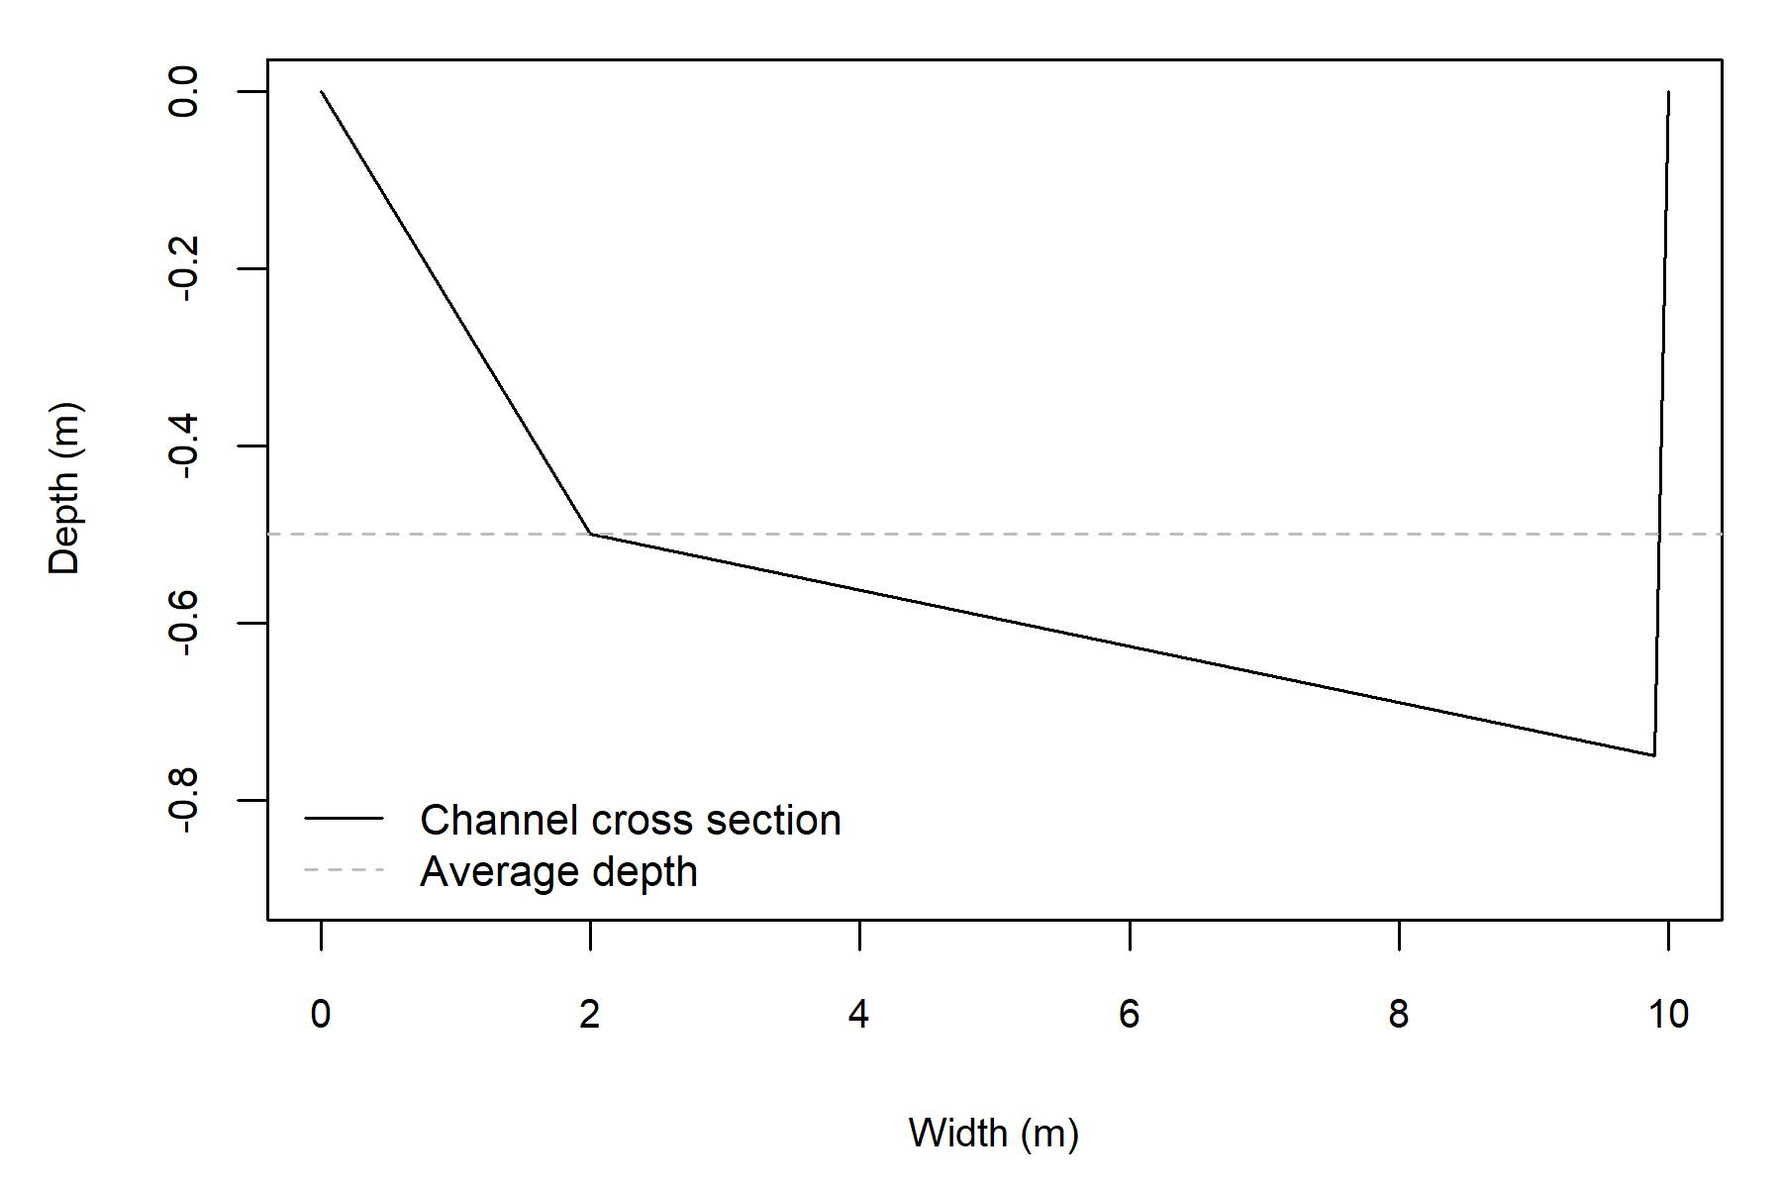
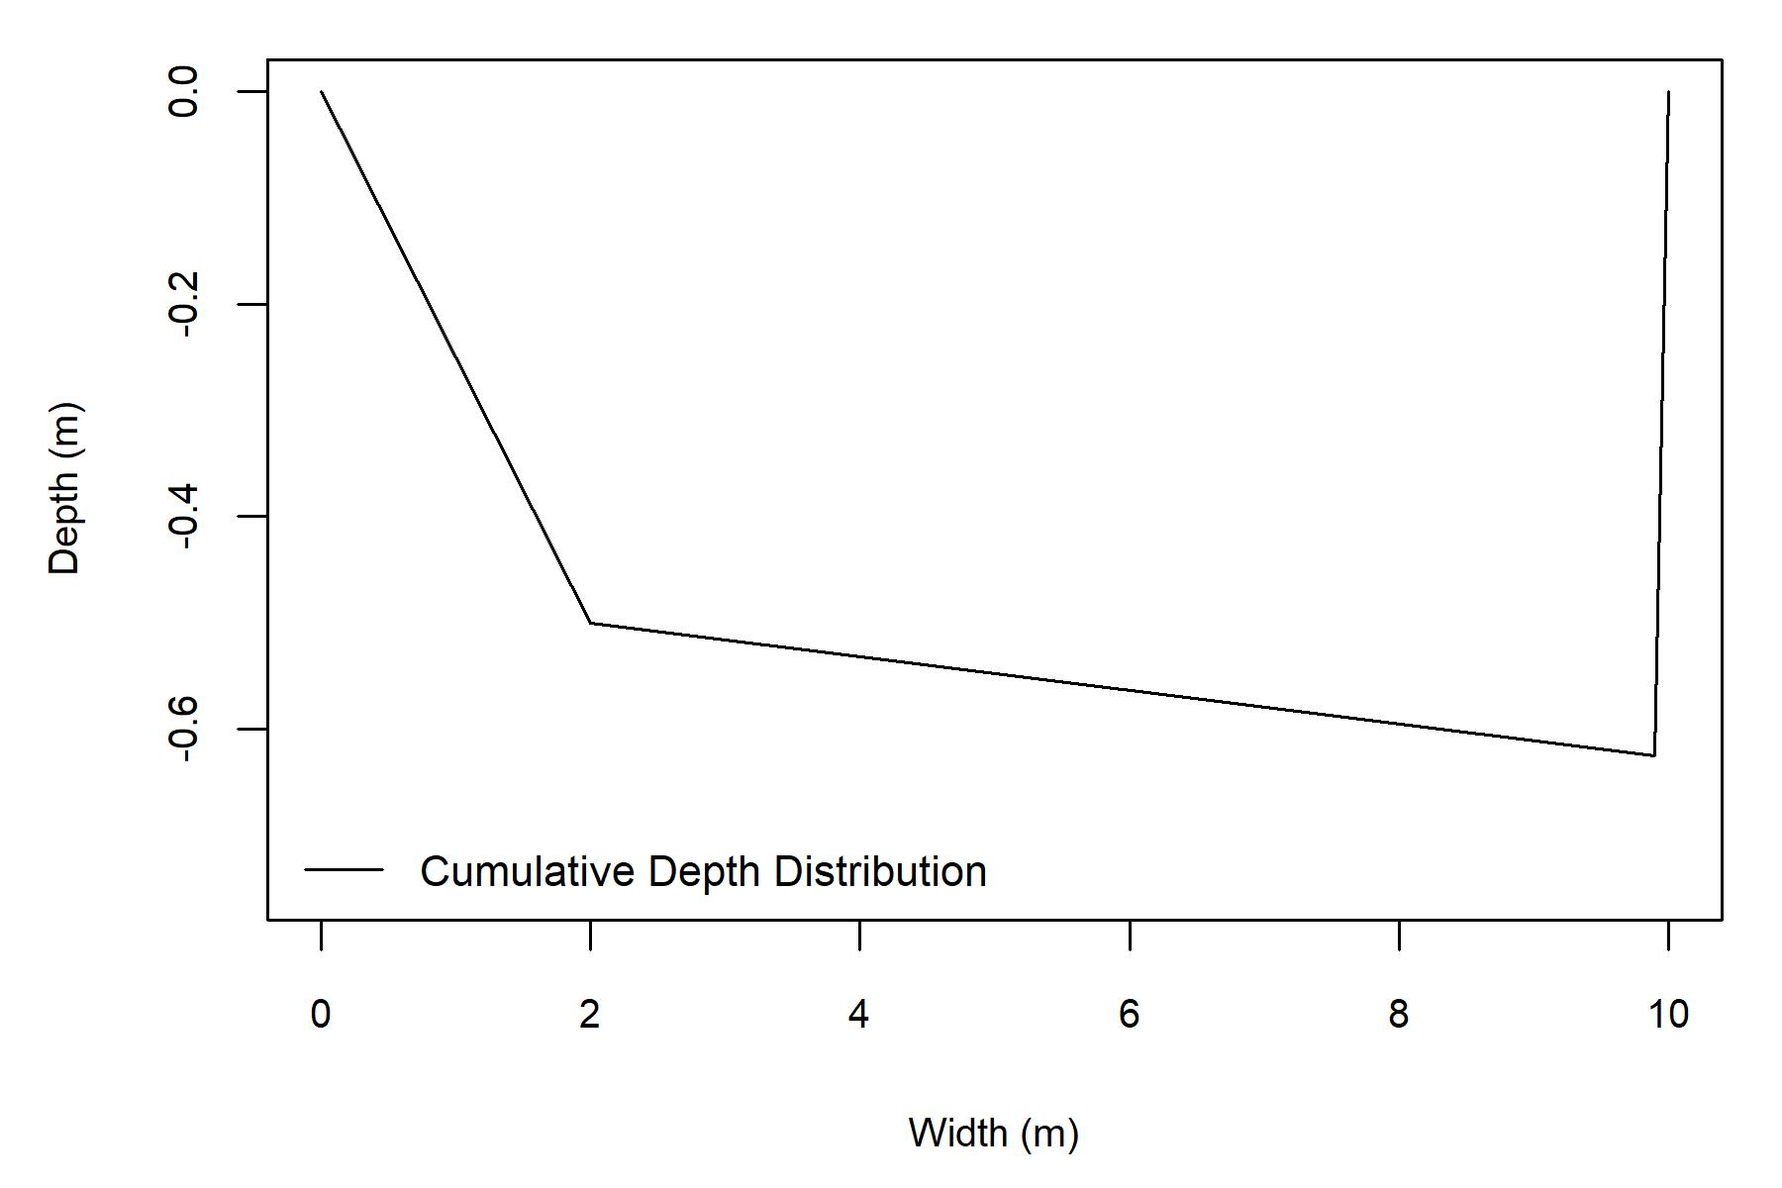
updated guidance figures, removed 'App' page.

diff --git a/docs/guidance.html b/docs/guidance.html
@@ -307,13 +307,13 @@ $(document).ready(function () {
 <h1>Introduction</h1>
 <p>This page provides a guide for the use of GIFT for conducting instream flow assessments. Generally, the intent of instream flow assessments is to quantify available fish habitat at different flow levels using a metric called weighted usable area (<em>WUA</em>). The results of instream flow assessments are often used to support water allocation and management decisions.</p>
 <p>There are two main components for determining the <em>WUA</em> of a stream: (1) hydraulic data to characterize the depth and velocity characteristics of the stream, and (2) a biological model that describe the relevant species’ preference for those hydraulic characteristics, known as habitat suitability curves (HSCs). Observations that characterize the substrate and cover characteristics and the associated fish preferences may also be used to calculate <em>WUA</em>.</p>
-<p>Instream flow assessments using conventional methods are time consuming and expensive to implement and they only represent static channel conditions that represent a snapshot in time. GIFT has been designed to address these limitations by improving the hydraulic components of instream flow assessments. It can be implemented using minimal field data, and requires significantly less data processing and computing time compared to conventional methods.</p>
+<p>Instream flow assessments using conventional methods are time consuming and expensive to implement and they only represent static channel conditions that represent a snapshot in time. GIFT has been designed to address these limitations by improving the hydraulic components of instream flow assessments. It can be implemented using minimal field data, and requires significantly less data processing and computing time compared to conventional methods. In addition, GIFT can be implemented alongside geomorphic regime models to evaluate dynamic channel conditions and fish habitat.</p>
 <p>GIFT has two distinct components:</p>
 <ol style="list-style-type: decimal">
 <li>A reach-averaged hydraulic simulation approach</li>
 <li>statistical distributions of depths and velocity that are used to calculate <em>WUA</em></li>
 </ol>
-<p>This guidance is focused on the implementation of the hydraulic simulator and statistical distribution components of GIFT. Readers who are interested in the theoretical underpinnings of the this approach are referred to McParland et al. (2016) for information on the hydraulic simulator, Saraeva and Hardy (2009) and Schweizer et al. (2007) for information on the statistical distributions, and Eaton et al. (2004) for information on the geomorphic regime model. An evaluation of GIFT in eight streams located in western Canada is also in progress. Once the findings of this evaluation become available they will be shared on this webiste. Please check out the References tab for more links to these studies.</p>
+<p>This guidance is focused on the implementation of the hydraulic simulator and statistical distribution components of GIFT. Readers who are interested in the theoretical underpinnings of the this approach are referred to McParland et al. (2016) for information on the hydraulic simulator, Saraeva and Hardy (2009) and Schweizer et al. (2007) for information on the statistical distributions, and Eaton et al. (2004) for information on a geomorphic regime model that can easily be implemented alongside GIFT. An evaluation of GIFT in eight streams located in western Canada is also in progress. Once the findings of this evaluation become available they will be shared on this webiste. Please check out the References tab for more links to these studies.</p>
 <p><br></p>
 <div id="model-overview" class="section level2">
 <h2>Model Overview</h2>
@@ -324,13 +324,14 @@ $(document).ready(function () {
 <p><br></p>
 </div>
 </div>
-<div id="applying-the-gift" class="section level1">
-<h1>Applying the GIFT</h1>
+<div id="applying-gift" class="section level1">
+<h1>Applying GIFT</h1>
 <p><br></p>
 <div id="field-considerations" class="section level3">
 <h3>Field Considerations</h3>
 <p>There are many ways GIFT could be implemented. Field programs should be designed around project objectives. This section is intended to provide considerations for designing a field program, it is not a step-by-step guide for collecting field data.</p>
-<p>When planning a field trip to collect data to run GIFT, it is necessary to identify the study reach. Then, channel geometry can be characterized by collecting depth data along a series of transects. The location and the appropriate number of transects are dependent on factors such as desired accuracy, access, and time. A robust approach is to identify cross sections randomly within the reach, but that is not always practical. Another option is to characterize the study reach by channel units (mesohabitats), and then identify transects within those classifications using a stratified random approach. When collecting cross sections, be sure to note the estimated bankfull elevations on either side of the channel.</p>
+<p>When planning a field trip to collect data to run GIFT, it is necessary to identify the study reach. Then, channel geometry can be characterized by collecting survey data along a series of transects. The location and the appropriate number of transects are dependent on factors such as desired accuracy, access, and time. Ideally, surveys of at least 10 channel cross sections would be conducted that demarcate the top of bank, bottom of bank, edge of vegetation, indicators of bankfull elevation, the water’s edge at the time of survey, and the thalweg location. Accurate measurements of channel gradient are also necessary. The data that are collected should be sufficient to faithfully reproduce the general cross-sectional shape of the study reach, but there is little to be gained by conducting a hyper-detailed survey of cross-sectional topography.</p>
+<p>A robust approach is to identify cross sections randomly within the reach, but that is not always practical. Another option is to characterize the study reach by channel units (mesohabitats), and then identify transects within those classifications using a stratified random approach. When collecting cross sections, be sure to note the estimated bankfull elevations on either side of the channel.</p>
 <p>Another key data requirement to execute GIFT is a representative grain size distribution, which is used to evaluate channel roughness and estimate velocity. This can be conducted using a Wolman pebble count, analysis of photographs, or visual estimation. Because the field work does not need to coincide with any particular flow, these data are most easily collected during open-water, low flow conditions. Coordinating a field visit during low flows would also likely coincide with the safest conditions for wading.</p>
 <p><br></p>
 </div>
@@ -356,7 +357,7 @@ $(document).ready(function () {
 </div>
 <div id="using-the-r-package" class="section level3">
 <h3>Using the R Package</h3>
-<p>For users familiar with R, GIFT is available as a package from GitHub. The below code snippet uses the ‘devtools’ package to install the package. Currently, there are two functions in the package, one to execute the hydraulic simulator and another to execute the statistical distributions and calculate <em>WUA</em>. The below code should be un-commented out where necessary to install the package for the first time.</p>
+<p>For users familiar with R, GIFT is available as a package from GitHub. The below code snippet uses the ‘devtools’ package to install the package. Currently, there are two functions in the package, one to execute the hydraulic simulator and another to execute the statistical distributions and calculate <em>WUA</em>. The below code should be un-commented (hash-tags at the start of each line removed) out where necessary to install the package for the first time.</p>
 <pre class="r"><code># Note: the package requires that dplyr and zoo packages installed.
 # install.packages(dplyr)
 # install.packages(zoo)
@@ -375,40 +376,36 @@ library(zoo)
 <div id="executing-the-hydraulic-simulator" class="section level4">
 <h4>Executing the Hydraulic Simulator</h4>
 <p>The first function in GIFT package is the ‘AvgHydraulics’ function that executes the hydraulic simulator and produces a data frame of outputs. The below code snippet provides an example of how to run the model. The following code snippets showcase the execution of the AvgHydraulics function. In this scenario, <span class="math inline">\(d_{max}\)</span> is not specified, so the function assumes <span class="math inline">\(b = (W_b / d_b)\)</span></p>
-<pre class="r"><code>hydraulics = AvgHydraulics(S = 0.01, wb = 10, db = 0.5, 
-                           max_Q = 0.1, D84 = 100)
+<pre class="r"><code>hydraulics = AvgHydraulics(S = 0.01, wb = 10, db = 0.5, D84 = 100)
 head(hydraulics)</code></pre>
 <pre><code>##       Q         Ai       Wi         di         Ui
-## 1 0.001 0.03625683 1.516901 0.02390076 0.02757710
-## 2 0.002 0.05395627 1.850492 0.02915690 0.03706367
-## 3 0.003 0.06809853 2.078908 0.03275590 0.04404992
-## 4 0.004 0.08034085 2.258076 0.03557892 0.04978612
-## 5 0.005 0.09133912 2.407678 0.03793610 0.05473889
-## 6 0.006 0.10143964 2.537302 0.03997850 0.05914482</code></pre>
+## 1 0.001 0.04809630 2.469268 0.01947684 0.02078792
+## 2 0.002 0.07151588 3.010765 0.02375331 0.02796553
+## 3 0.003 0.09024328 3.381748 0.02668452 0.03324022
+## 4 0.004 0.10648644 3.673706 0.02898549 0.03756106
+## 5 0.005 0.12094234 3.914475 0.03089580 0.04134046
+## 6 0.006 0.13439002 4.127162 0.03256184 0.04464409</code></pre>
 <p><br></p>
-<p>The idealized reach-cross section generated by this analysis is as follows: <img src="channel_xs_dmean.jpeg" width="70%" style="display: block; margin: auto;" /></p>
+<p>The cumulative depth distribution is generated by this analysis is as follows: <img src="channel_xs_dmean.jpeg" width="70%" style="display: block; margin: auto;" /></p>
 <p><br></p>
-<p>Here, the <span class="math inline">\(d_{max}\)</span> term is specificied within the AvgHydraulics function call, so the function assumes <span class="math inline">\(b = 1 - (d_b/d_{max})\)</span></p>
-<pre class="r"><code>hydraulics = AvgHydraulics(S = 0.01, wb = 10, db = 0.5, db_max = 1.25,
-                           max_Q = 0.1, D84 = 100)
+<p>Here, the <span class="math inline">\(d_{max}\)</span> term is specified within the AvgHydraulics function call, so the function assumes <span class="math inline">\(b = 1 - (d_b/d_{max})\)</span></p>
+<pre class="r"><code>hydraulics = AvgHydraulics(S = 0.01, wb = 10, db = 0.5, db_max = 0.75, D84 = 100)
 head(hydraulics)</code></pre>
-<pre><code>##       Q         Ai        Wi         di         Ui
-## 1 0.001 0.01667512 0.2972807 0.05609071 0.05996488
-## 2 0.002 0.02486225 0.3629916 0.06848898 0.08043068
-## 3 0.003 0.03142717 0.4081224 0.07700423 0.09545860
-## 4 0.004 0.03711957 0.4435399 0.08368678 0.10775030
-## 5 0.005 0.04224627 0.4731803 0.08927929 0.11834497
-## 6 0.006 0.04696391 0.4989043 0.09413288 0.12775286</code></pre>
+<pre><code>##       Q         Ai       Wi         di         Ui
+## 1 0.001 0.03354854 1.330329 0.02521728 0.02980415
+## 2 0.002 0.05007830 1.626481 0.03078886 0.03993549
+## 3 0.003 0.06321439 1.827366 0.03459238 0.04745422
+## 4 0.004 0.07463971 1.985960 0.03758297 0.05358751
+## 5 0.005 0.08468275 2.114073 0.04005611 0.05904123
+## 6 0.006 0.09419307 2.230608 0.04222676 0.06369544</code></pre>
 <p><br></p>
-<p>The idealized reach-cross section generated by this analysis is as follows: <img src="channel_xs_dmax.jpeg" width="70%" style="display: block; margin: auto;" /></p>
+<p>The cumulative depth distribution is generated by this analysis is as follows: <img src="channel_xs_dmax.jpeg" width="70%" style="display: block; margin: auto;" /></p>
 <p><br></p>
 <p>Users may also specify a b-value, thereby over-riding either formula.</p>
-<pre class="r"><code>hydraulics = AvgHydraulics(S = 0.01, wb = 10, db = 0.5, db_max = 1.25,
-                           max_Q = 0.1, D84 = 100, b_value = 0.2)</code></pre>
+<pre class="r"><code>hydraulics = AvgHydraulics(S = 0.01, wb = 10, db = 0.5, db_max = 0.75, D84 = 100, b_value = 0.2)</code></pre>
 <p><br></p>
-<p>This function outputs a figure of the cross-section of the idealized reach and a .csv file of the simluated reach-averaged hydraulics. This feature may be turned off by specifying xs_ouput = FALSE, like so:</p>
-<pre class="r"><code>hydraulics = AvgHydraulics(S = 0.01, wb = 10, db = 0.5, db_max = 1.25,
-                           max_Q = 1, D84 = 100, xs_output = FALSE)</code></pre>
+<p>This function outputs a figure of the cumulative depth distribution and a .csv file of the simluated reach-averaged hydraulics. This feature may be turned off by specifying xs_ouput = FALSE, like so:</p>
+<pre class="r"><code>hydraulics = AvgHydraulics(S = 0.01, wb = 10, db = 0.5, db_max = 0.75, D84 = 100, xs_output = FALSE)</code></pre>
 <p><br></p>
 </div>
 <div id="execute-the-habitat-function" class="section level4">
@@ -416,7 +413,7 @@ head(hydraulics)</code></pre>
 <p>The Habitat function applies statistical frequency distribution to the mean depths and velocities that are output by the hydraulic simulator function. These disitributions are then paired with user-specified habitat suitability curves to generate reach-averaged depth and velocity suitabilities. To estimate the <em>WUA</em> of the stream reach, these suitabilities are multiplied with the modelled stream width to develop a <em>WUA</em> value in m<sup>2</sup> / m.</p>
 <p>The input parameters for the Habitat function are as follows:</p>
 <ul>
-<li><strong>hydrualics</strong>, a data frame of outputs generated by the AvgHydraulics function. This field is mandatory.</li>
+<li><strong>hydraulics</strong>, a data frame of outputs generated by the AvgHydraulics function. This field is mandatory.</li>
 <li><strong>d_curve</strong>, depth suitability curve. This should be a dataframe with two columns: ‘depth’ (m) and ‘suit’ (dimensionless suitability from 0-1). This field is mandatory.</li>
 <li><strong>v_curve</strong>, velocity suitability curve. This should be a dataframe with two columns: ‘velocity’ (m/s) and ‘suit’ (dimensionless suitability from 0-1). This field is mandatory.</li>
 <li><strong>s_curve</strong>, substrate suitability curve. This is a dataframe of substrate suitabilities with three columns: ‘lower’ (mm) and ‘upper’ (mm) of grain size classes and ‘suit’ (dimensionless suitability from 0-1). This field is optional.</li>
@@ -428,42 +425,42 @@ v_curve = read.csv(&quot;velocity_suit_ptolemy.csv&quot;)%&gt;% filter(species =
 s_curve = read.csv(&quot;substrate_suit_ptolemy.csv&quot;)%&gt;% filter(species == &quot;rainbow&quot; &amp; life_stage == &quot;parr&quot;)</code></pre>
 <p><img src="guidance_files/figure-html/unnamed-chunk-9-1.png" width="1440" /></p>
 <p><br></p>
-<p>The grain size distribution should be specified as a vector of numerical observations. For this example, a simulated disribution will be generated:</p>
+<p>The grain size distribution should be specified as a vector of numerical observations, such as the observations of a Wolman Pebble Count. For illustration purposes only, we will use a simulated disribution will be generated:</p>
 <pre class="r"><code>gsd = rnorm(100, mean = 75, sd = 25)</code></pre>
 <p><img src="guidance_files/figure-html/unnamed-chunk-11-1.png" width="480" style="display: block; margin: auto;" /></p>
 <p><br></p>
 <p>And to refresh our memory, here is what the hydraulics data looks like that we generated earlier.</p>
 <pre class="r"><code>head(hydraulics)</code></pre>
-<pre><code>##       Q         Ai        Wi         di         Ui
-## 1 0.001 0.01667512 0.2972807 0.05609071 0.05996488
-## 2 0.002 0.02486225 0.3629916 0.06848898 0.08043068
-## 3 0.003 0.03142717 0.4081224 0.07700423 0.09545860
-## 4 0.004 0.03711957 0.4435399 0.08368678 0.10775030
-## 5 0.005 0.04224627 0.4731803 0.08927929 0.11834497
-## 6 0.006 0.04696391 0.4989043 0.09413288 0.12775286</code></pre>
+<pre><code>##       Q         Ai       Wi         di         Ui
+## 1 0.001 0.03354854 1.330329 0.02521728 0.02980415
+## 2 0.002 0.05007830 1.626481 0.03078886 0.03993549
+## 3 0.003 0.06321439 1.827366 0.03459238 0.04745422
+## 4 0.004 0.07463971 1.985960 0.03758297 0.05358751
+## 5 0.005 0.08468275 2.114073 0.04005611 0.05904123
+## 6 0.006 0.09419307 2.230608 0.04222676 0.06369544</code></pre>
 <p><br></p>
 <p>Here is an example of the execution of the Habitat function using just depth and velocity.</p>
-<pre class="r"><code>habitat = Habitat(hydraulics = hydraulics, d_curve = d_curve, v_curve = v_curve, max_Q = 0.1)
+<pre class="r"><code>habitat = Habitat(hydraulics = hydraulics, d_curve = d_curve, v_curve = v_curve,)
 head(habitat)</code></pre>
-<pre><code>##       Q    d.suit    v.suit s.suit         w        WUA
-## 1 0.001 0.2276549 0.2549141      1 0.2972807 0.01725193
-## 2 0.002 0.2787464 0.3332904      1 0.3629916 0.03372319
-## 3 0.003 0.3103864 0.3858780      1 0.4081224 0.04888134
-## 4 0.004 0.3350859 0.4293030      1 0.4435399 0.06380472
-## 5 0.005 0.3532596 0.4616608      1 0.4731803 0.07716913
-## 6 0.006 0.3697394 0.4877912      1 0.4989043 0.08998021</code></pre>
+<pre><code>##       Q     d.suit    v.suit s.suit        w        WUA
+## 1 0.001 0.07580115 0.1293719      1 1.330329 0.01304593
+## 2 0.002 0.10185502 0.1765005      1 1.626481 0.02923999
+## 3 0.003 0.11985860 0.2084220      1 1.827366 0.04564974
+## 4 0.004 0.13483312 0.2351875      1 1.985960 0.06297691
+## 5 0.005 0.14586234 0.2566764      1 2.114073 0.07914966
+## 6 0.006 0.15651724 0.2779703      1 2.230608 0.09704739</code></pre>
 <p><br></p>
 <p>It is also possible to define the grain size distribution and substrate suitability curves to include a reach-averaged substrate suitability. Both grain size distribution and substrate suitability curve must be specified to generate a substrate suitability value for the reach.</p>
 <pre class="r"><code>habitat = Habitat(hydraulics = hydraulics, d_curve = d_curve, 
-                  v_curve = v_curve, s_curve = s_curve, gsd = gsd, max_Q = 1)
+                  v_curve = v_curve, s_curve = s_curve, gsd = gsd)
 head(habitat)</code></pre>
-<pre><code>##       Q    d.suit    v.suit s.suit         w         WUA
-## 1 0.001 0.2276549 0.2549141  0.569 0.2972807 0.009816346
-## 2 0.002 0.2787464 0.3332904  0.569 0.3629916 0.019188493
-## 3 0.003 0.3103864 0.3858780  0.569 0.4081224 0.027813481
-## 4 0.004 0.3350859 0.4293030  0.569 0.4435399 0.036304884
-## 5 0.005 0.3532596 0.4616608  0.569 0.4731803 0.043909232
-## 6 0.006 0.3697394 0.4877912  0.569 0.4989043 0.051198739</code></pre>
+<pre><code>##       Q     d.suit    v.suit s.suit        w        WUA
+## 1 0.001 0.07580115 0.1293719  0.572 1.330329 0.00746227
+## 2 0.002 0.10185502 0.1765005  0.572 1.626481 0.01672528
+## 3 0.003 0.11985860 0.2084220  0.572 1.827366 0.02611165
+## 4 0.004 0.13483312 0.2351875  0.572 1.985960 0.03602279
+## 5 0.005 0.14586234 0.2566764  0.572 2.114073 0.04527360
+## 6 0.006 0.15651724 0.2779703  0.572 2.230608 0.05551111</code></pre>
 <p><br></p>
 <p>The Habitat function outputs a streamflow - habitat curve to the working directory as well. This functionality can be overridden if ‘wua_output = FALSE’ is specified.</p>
 <p><img src="WUA_Q.jpeg" width="70%" style="display: block; margin: auto;" /></p>

diff --git a/docs/index.html b/docs/index.html
@@ -307,10 +307,13 @@ $(document).ready(function () {
 <p>The Geomorphic Instream Flow Tool (GIFT) is a more efficient and proven approach for conducting instream flow assessments. The development of this website to execute GIFT was funded by a grant from the <a href="https://hctf.ca/">Habitat Conservation Trust Foundation</a>.</p>
 <p><br></p>
 <p><img src="HCTFLogo.jpg" width="30%" style="display: block; margin: auto;" /></p>
-<p><br> <br></p>
-<p>All of the code presented on this page is free software: you can redistribute it and/or modify it under the terms of the GNU General Public License as published by the Free Software Foundation, either version 3 of the License, or (at your option) any later version. The code is distributed in the hope that it will be useful, but WITHOUT ANY WARRANTY; without even the implied warranty of MERCHANTABILITY or FITNESS FOR A PARTICULAR PURPOSE. See the GNU General Public License for more details.</p>
+<p><br></p>
+<p>To access an R-Shiny App to execute GIFT, click <a href="https://sgronsdahl.shinyapps.io/GIFT/">here</a>.</p>
 <p><br></p>
 <p>For questions or enquiries regarding GIFT, contact Stefan Gronsdahl at: stefan.gronsdahl (at) pecg.ca</p>
+<p><br></p>
+<p>All of the code presented on this page is free software: you can redistribute it and/or modify it under the terms of the GNU General Public License as published by the Free Software Foundation, either version 3 of the License, or (at your option) any later version. The code is distributed in the hope that it will be useful, but WITHOUT ANY WARRANTY; without even the implied warranty of MERCHANTABILITY or FITNESS FOR A PARTICULAR PURPOSE. See the GNU General Public License for more details.</p>
+<p><br></p>
 <p><br></p>
 <p><img src="river1.jpg" width="95%" style="display: block; margin: auto;" /></p>
 
